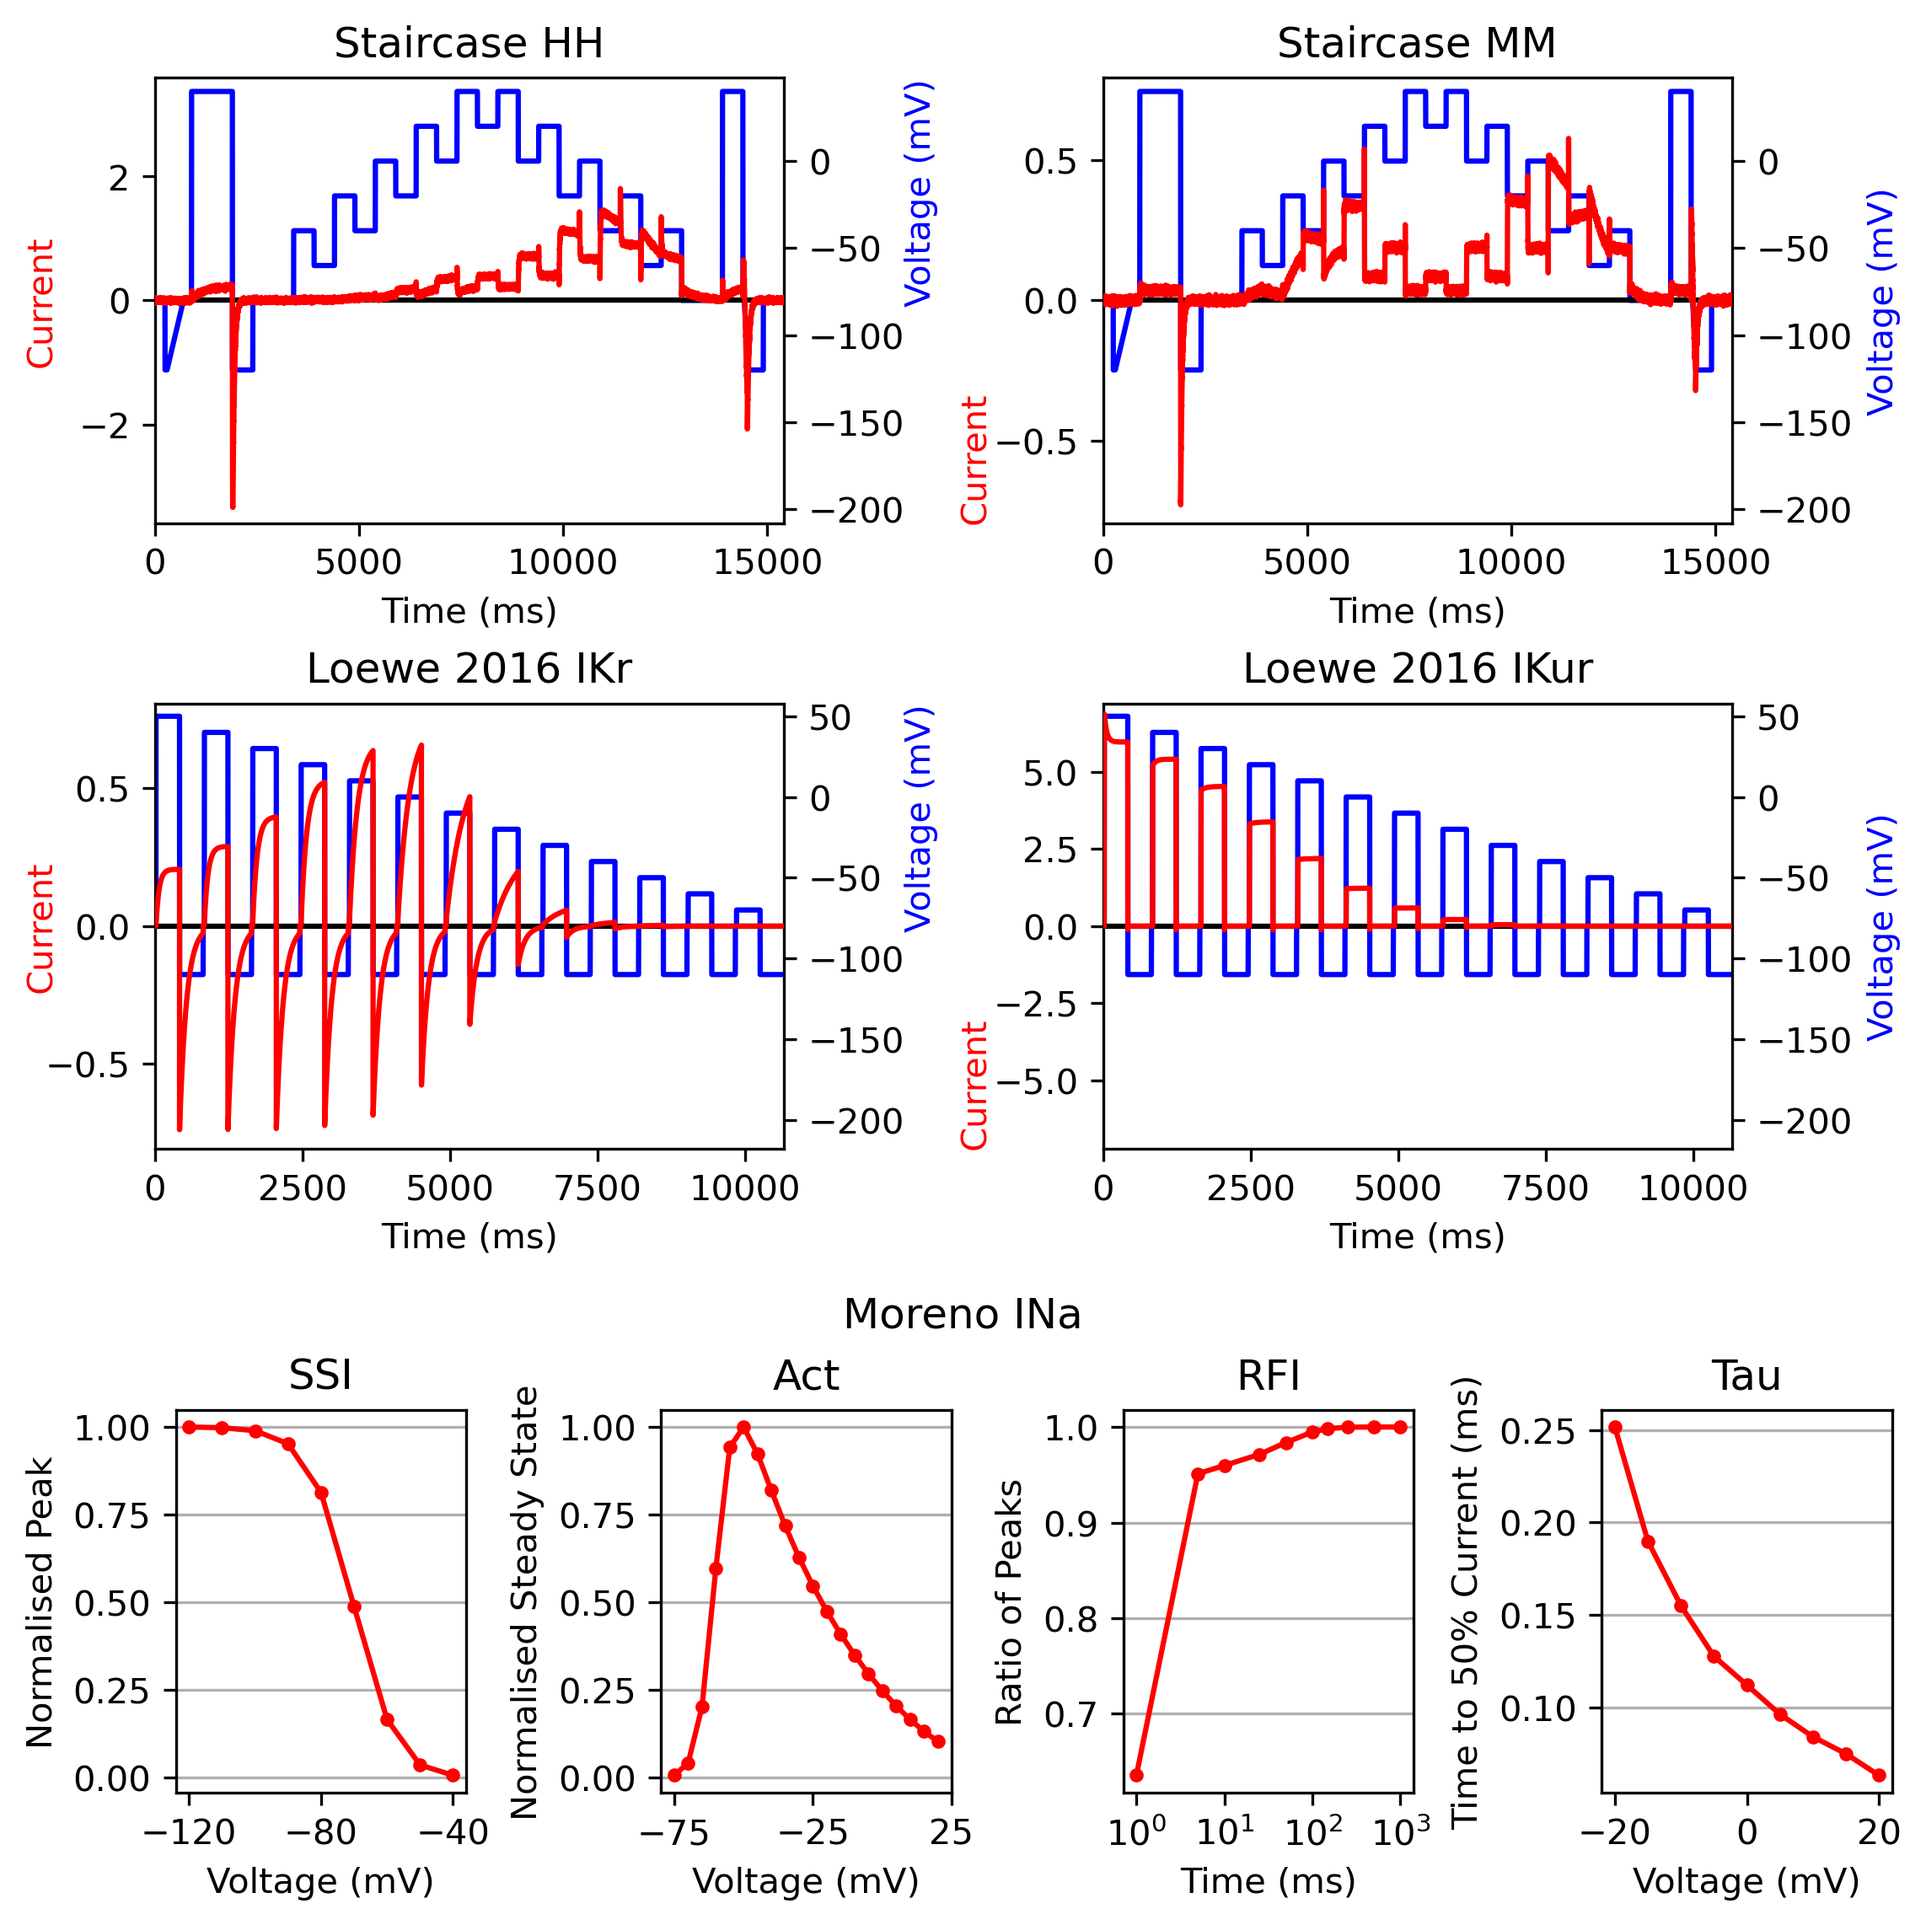
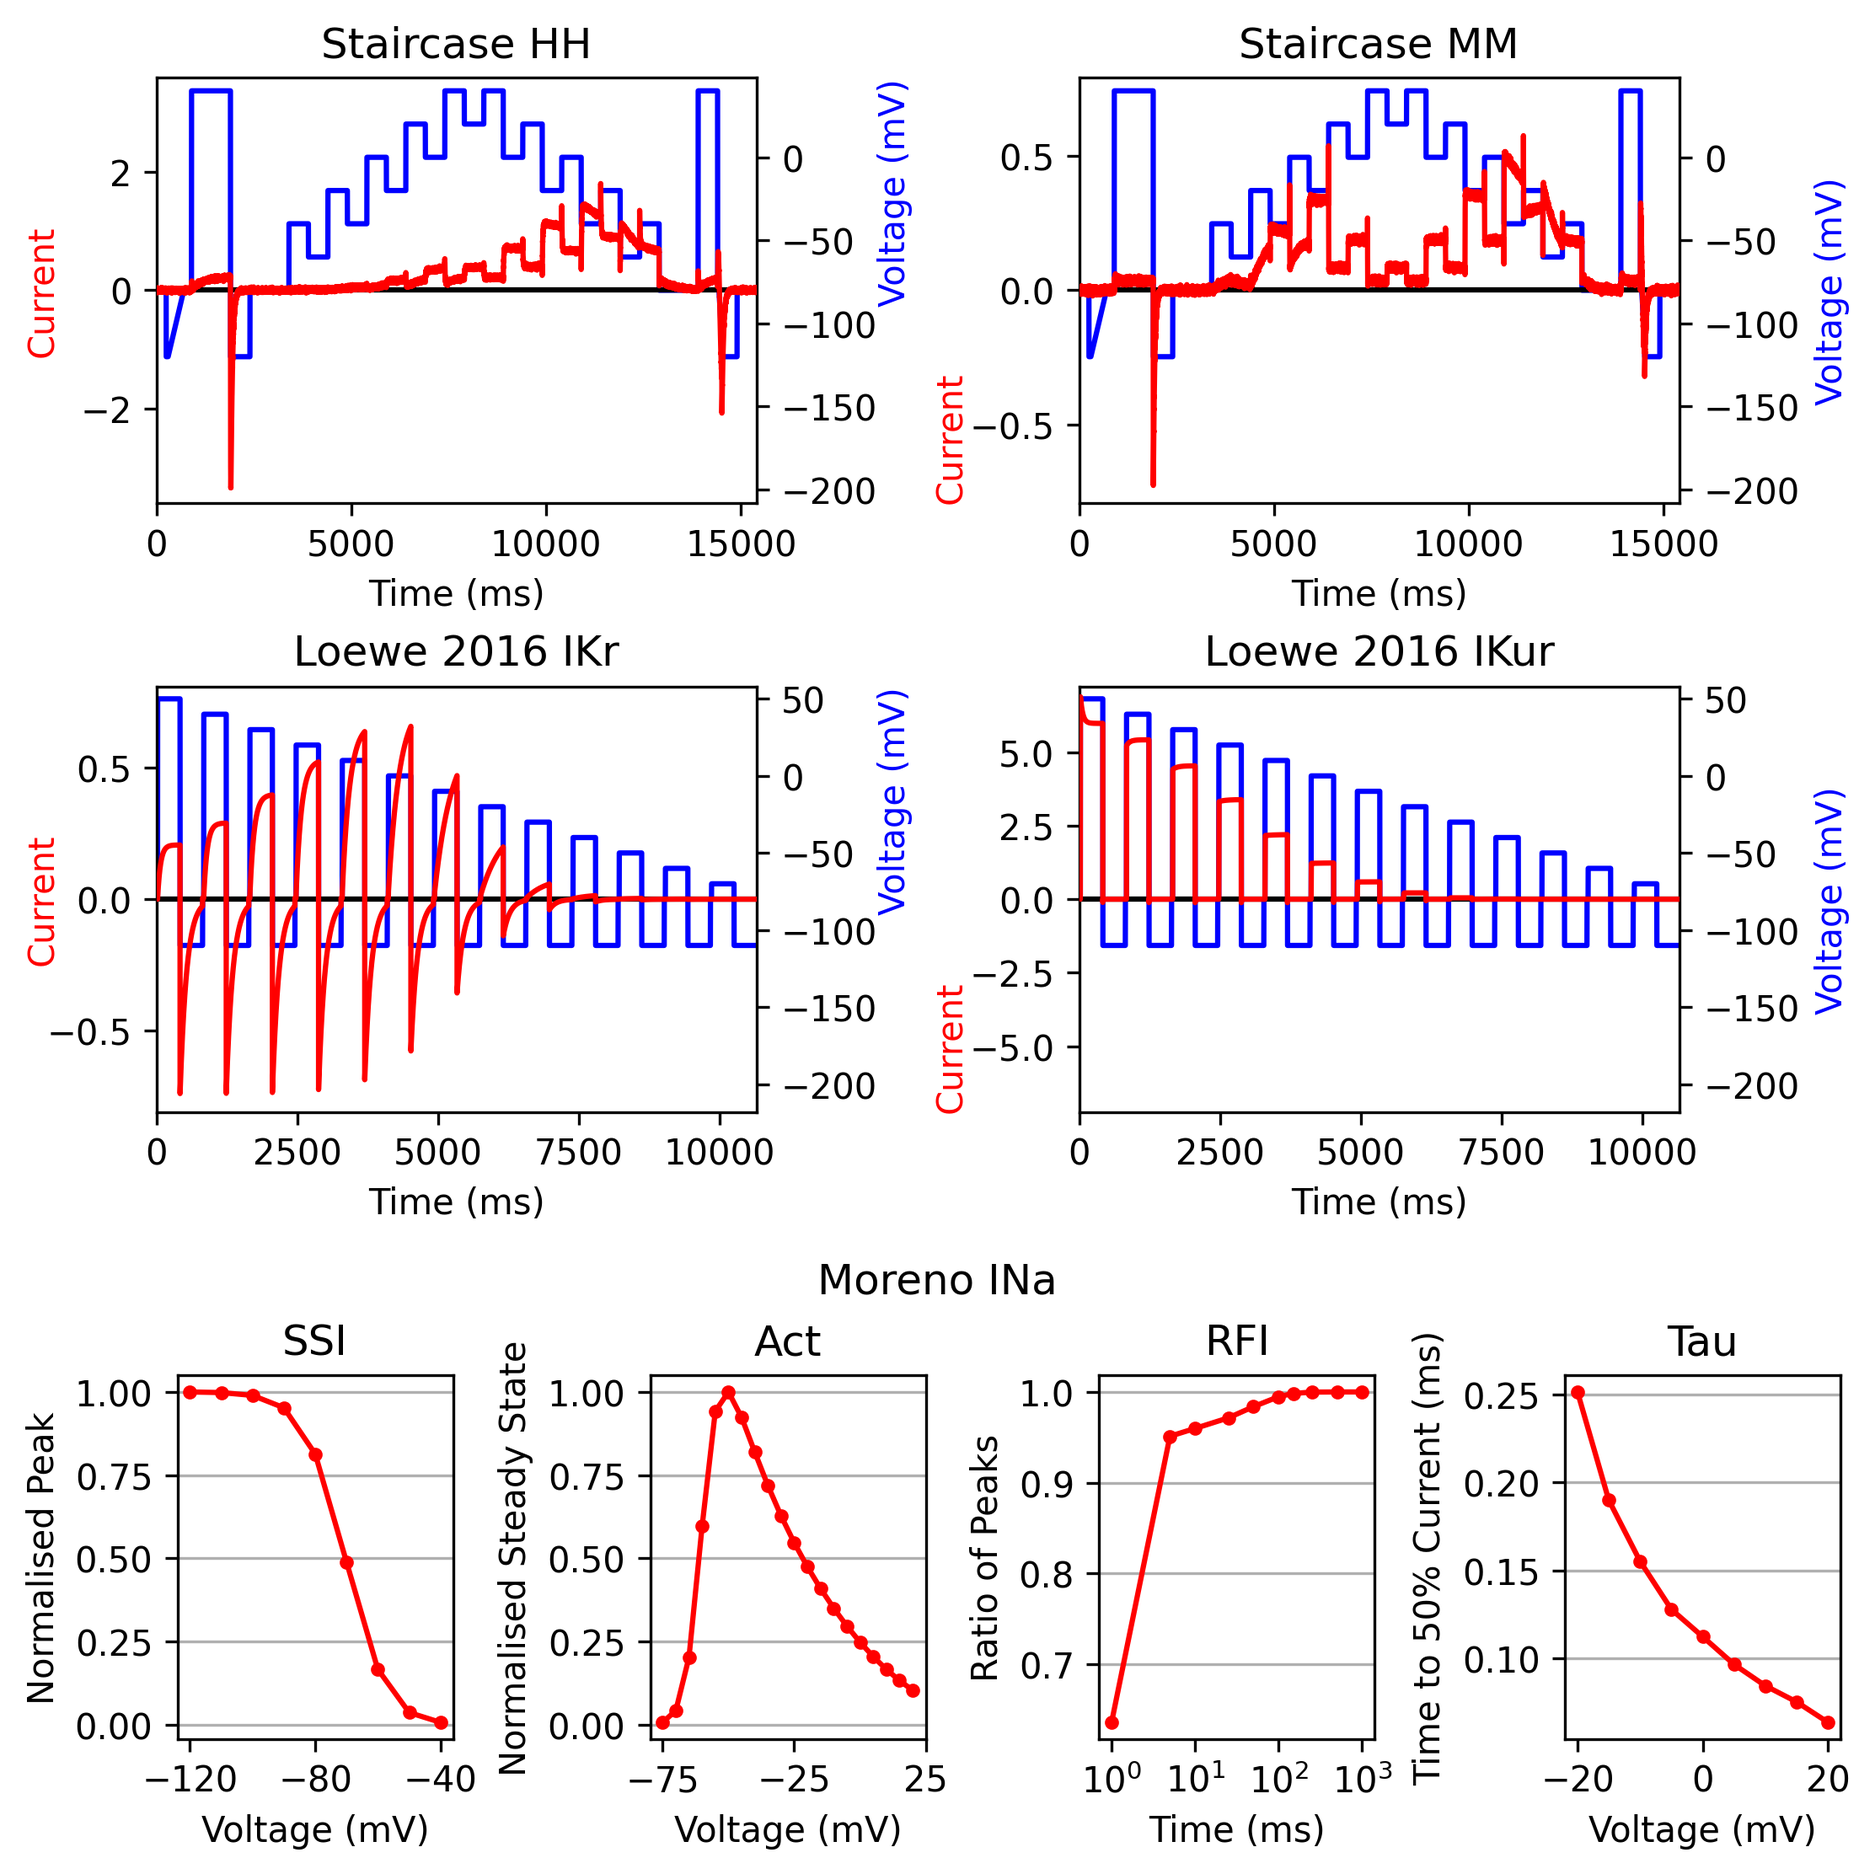
reduced size of model data figure

diff --git a/scripts/plotCurrent.py b/scripts/plotCurrent.py
@@ -69,7 +69,7 @@ def plot_moreno(axs, xLabels, xCoords, titles, yLabels, xTicks):
         axs[i].grid(axis='y')
 
 
-fig = plt.figure(layout='constrained', figsize=(7.5, 7.5))
+fig = plt.figure(layout='constrained', figsize=(7.3, 7.3))
 subfigs = fig.subfigures(2, 1, height_ratios=[2, 1])
 
 axsTop = subfigs[0].subplots(2, 2)
